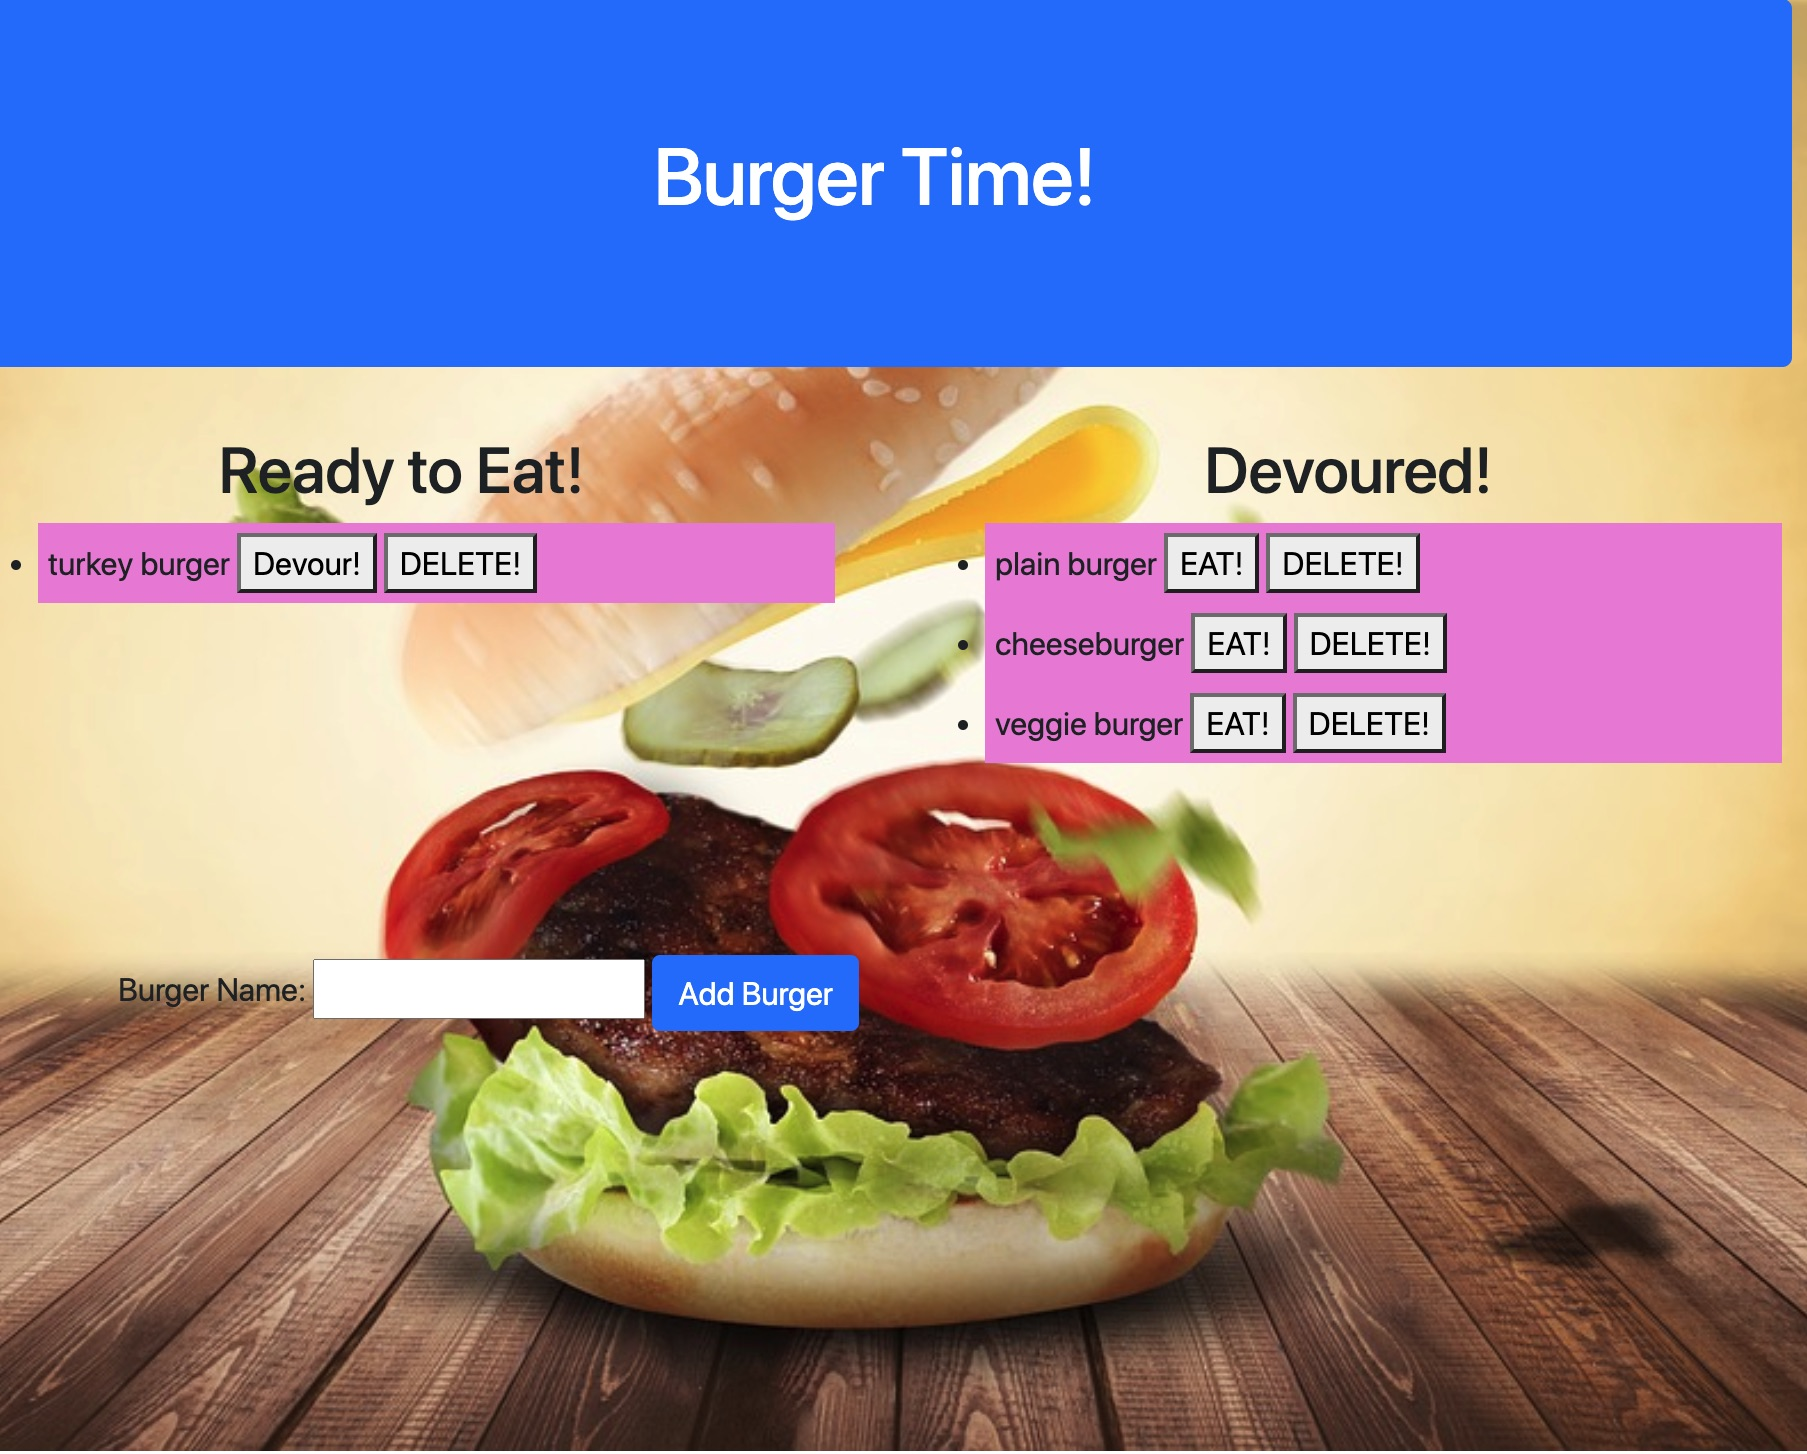
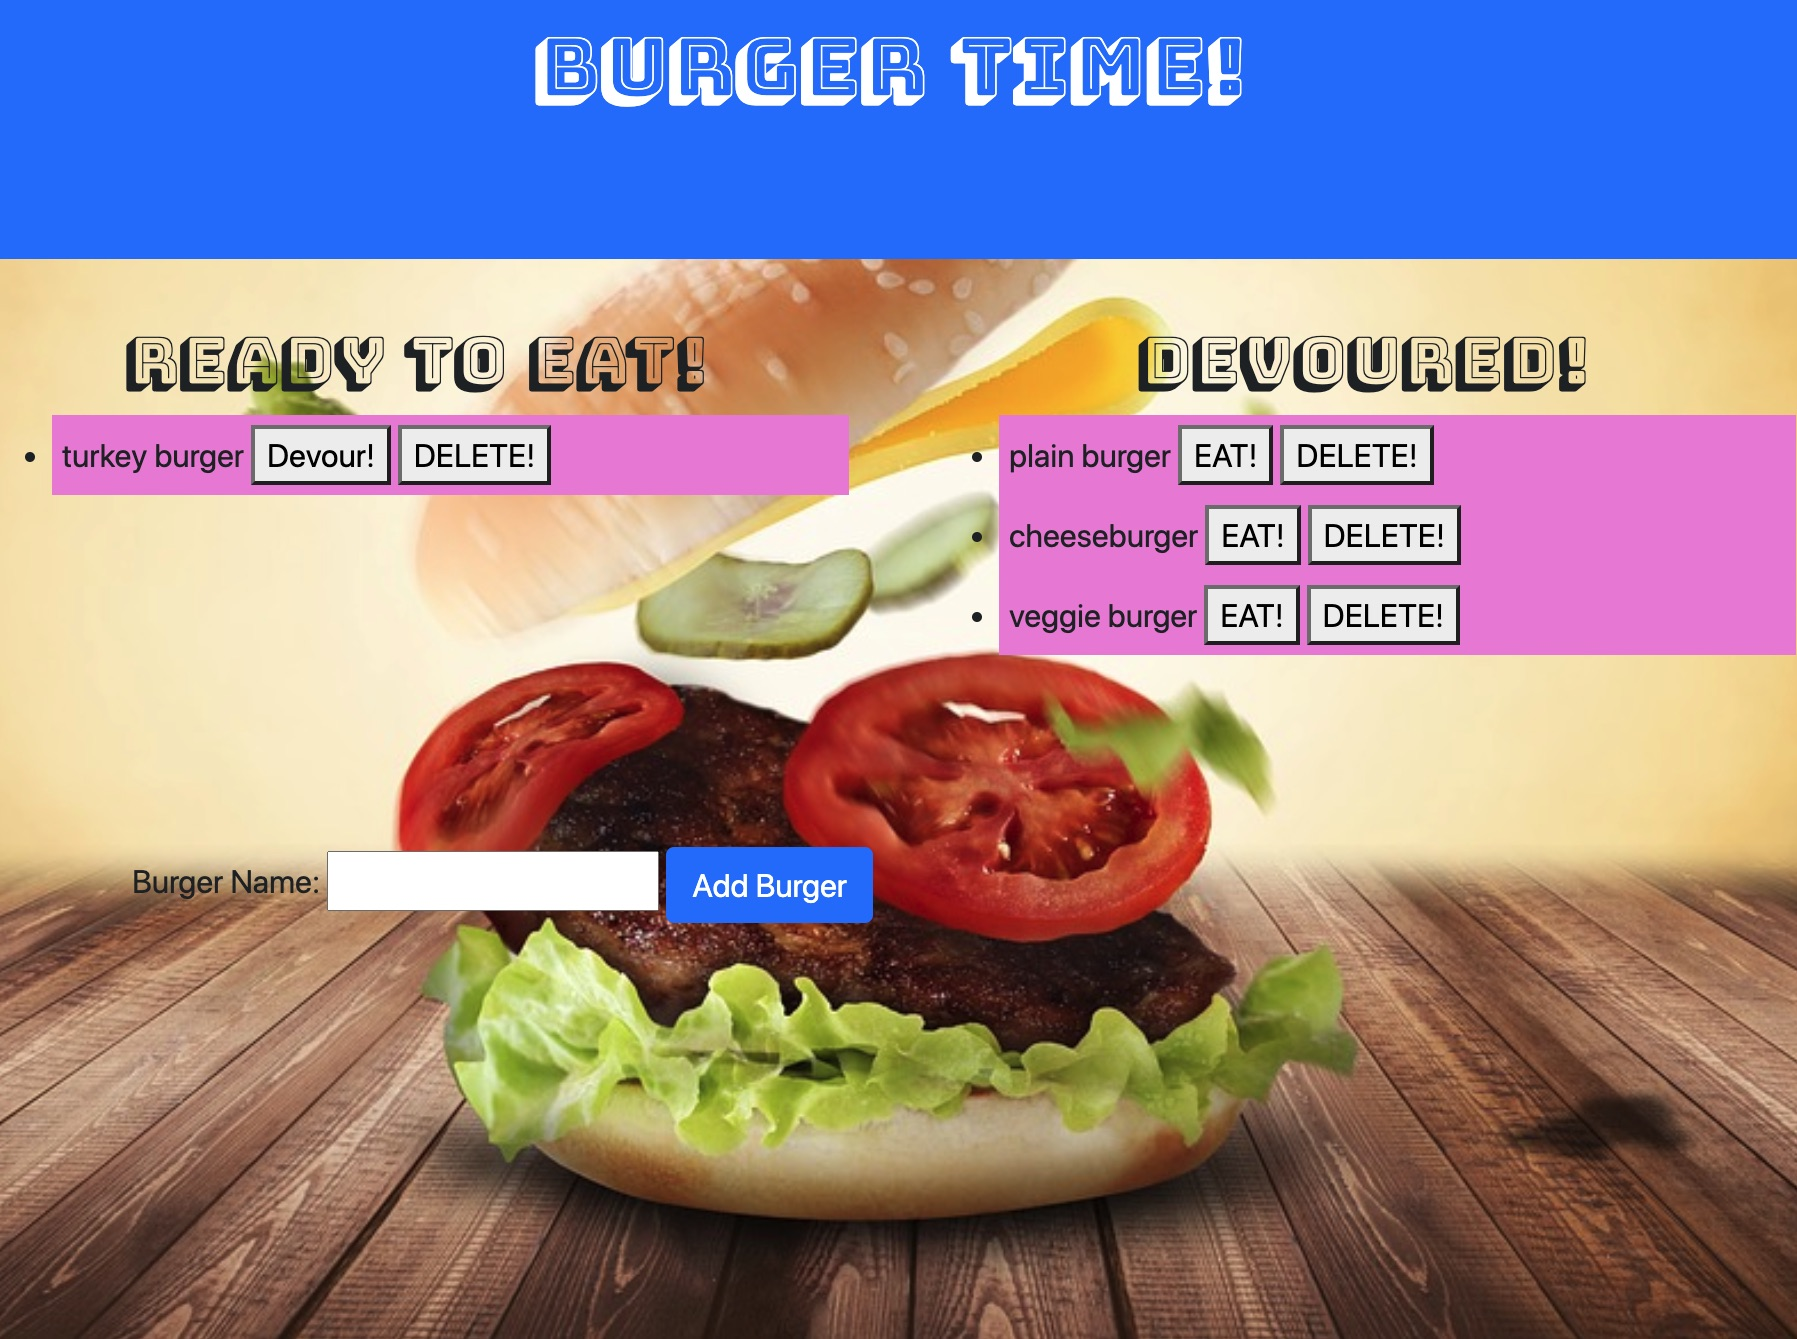
add img in README.md

diff --git a/public/assets/css/style.css b/public/assets/css/style.css
@@ -4,6 +4,14 @@ html {
     min-height: 80%;
 }
 
+h1 {
+  font-family: 'Bungee Shade', cursive;
+}
+
+h2 {
+  font-family: 'Bungee Shade', cursive;
+}
+
 body {
     background-image: url('/assets/img/burger.jpg');
     background-repeat: no-repeat;
